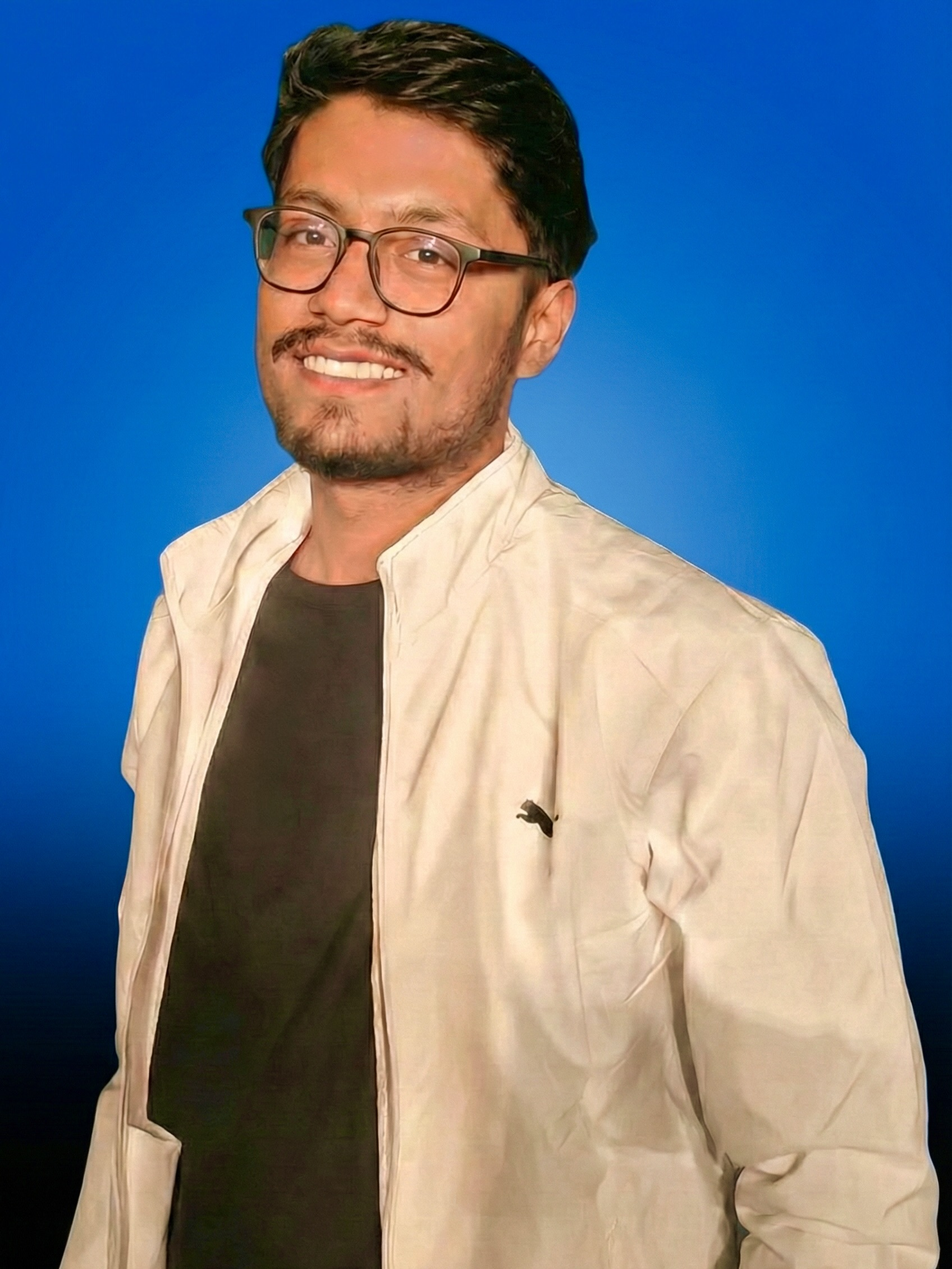
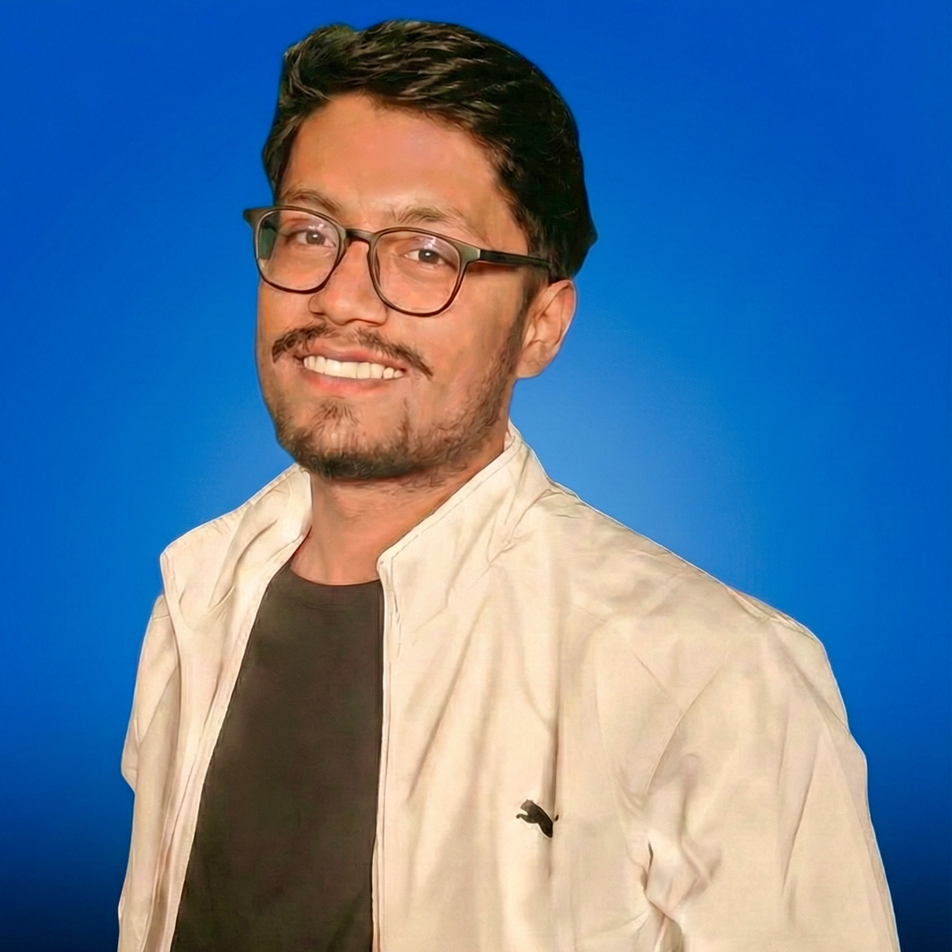
feat: Add Ishan Mishra's profile image, update team member data, and adjust team page padding.

diff --git a/app/team/page.tsx b/app/team/page.tsx
@@ -41,7 +41,7 @@ export default function TeamPage() {
   return (
     <main className="min-h-screen bg-black-100 pt-36 pb-20">
         <Section>
-            <div className="mb-20">
+            <div className="mb-20 pb-40">
                 <p className="text-azure-400 font-mono text-sm tracking-[0.2em] mb-6 uppercase">
                     The Minds Behind The Machine
                 </p>

diff --git a/data/team.ts b/data/team.ts
@@ -25,7 +25,7 @@ export const leads = [
     id: 4,
     name: "Ishan Mishra",
     role: "Web Dev Lead",
-    img: "/profile.svg",    
+    img: "/ishan-mishra.jpeg",    
   },
   {
     id: 5,
